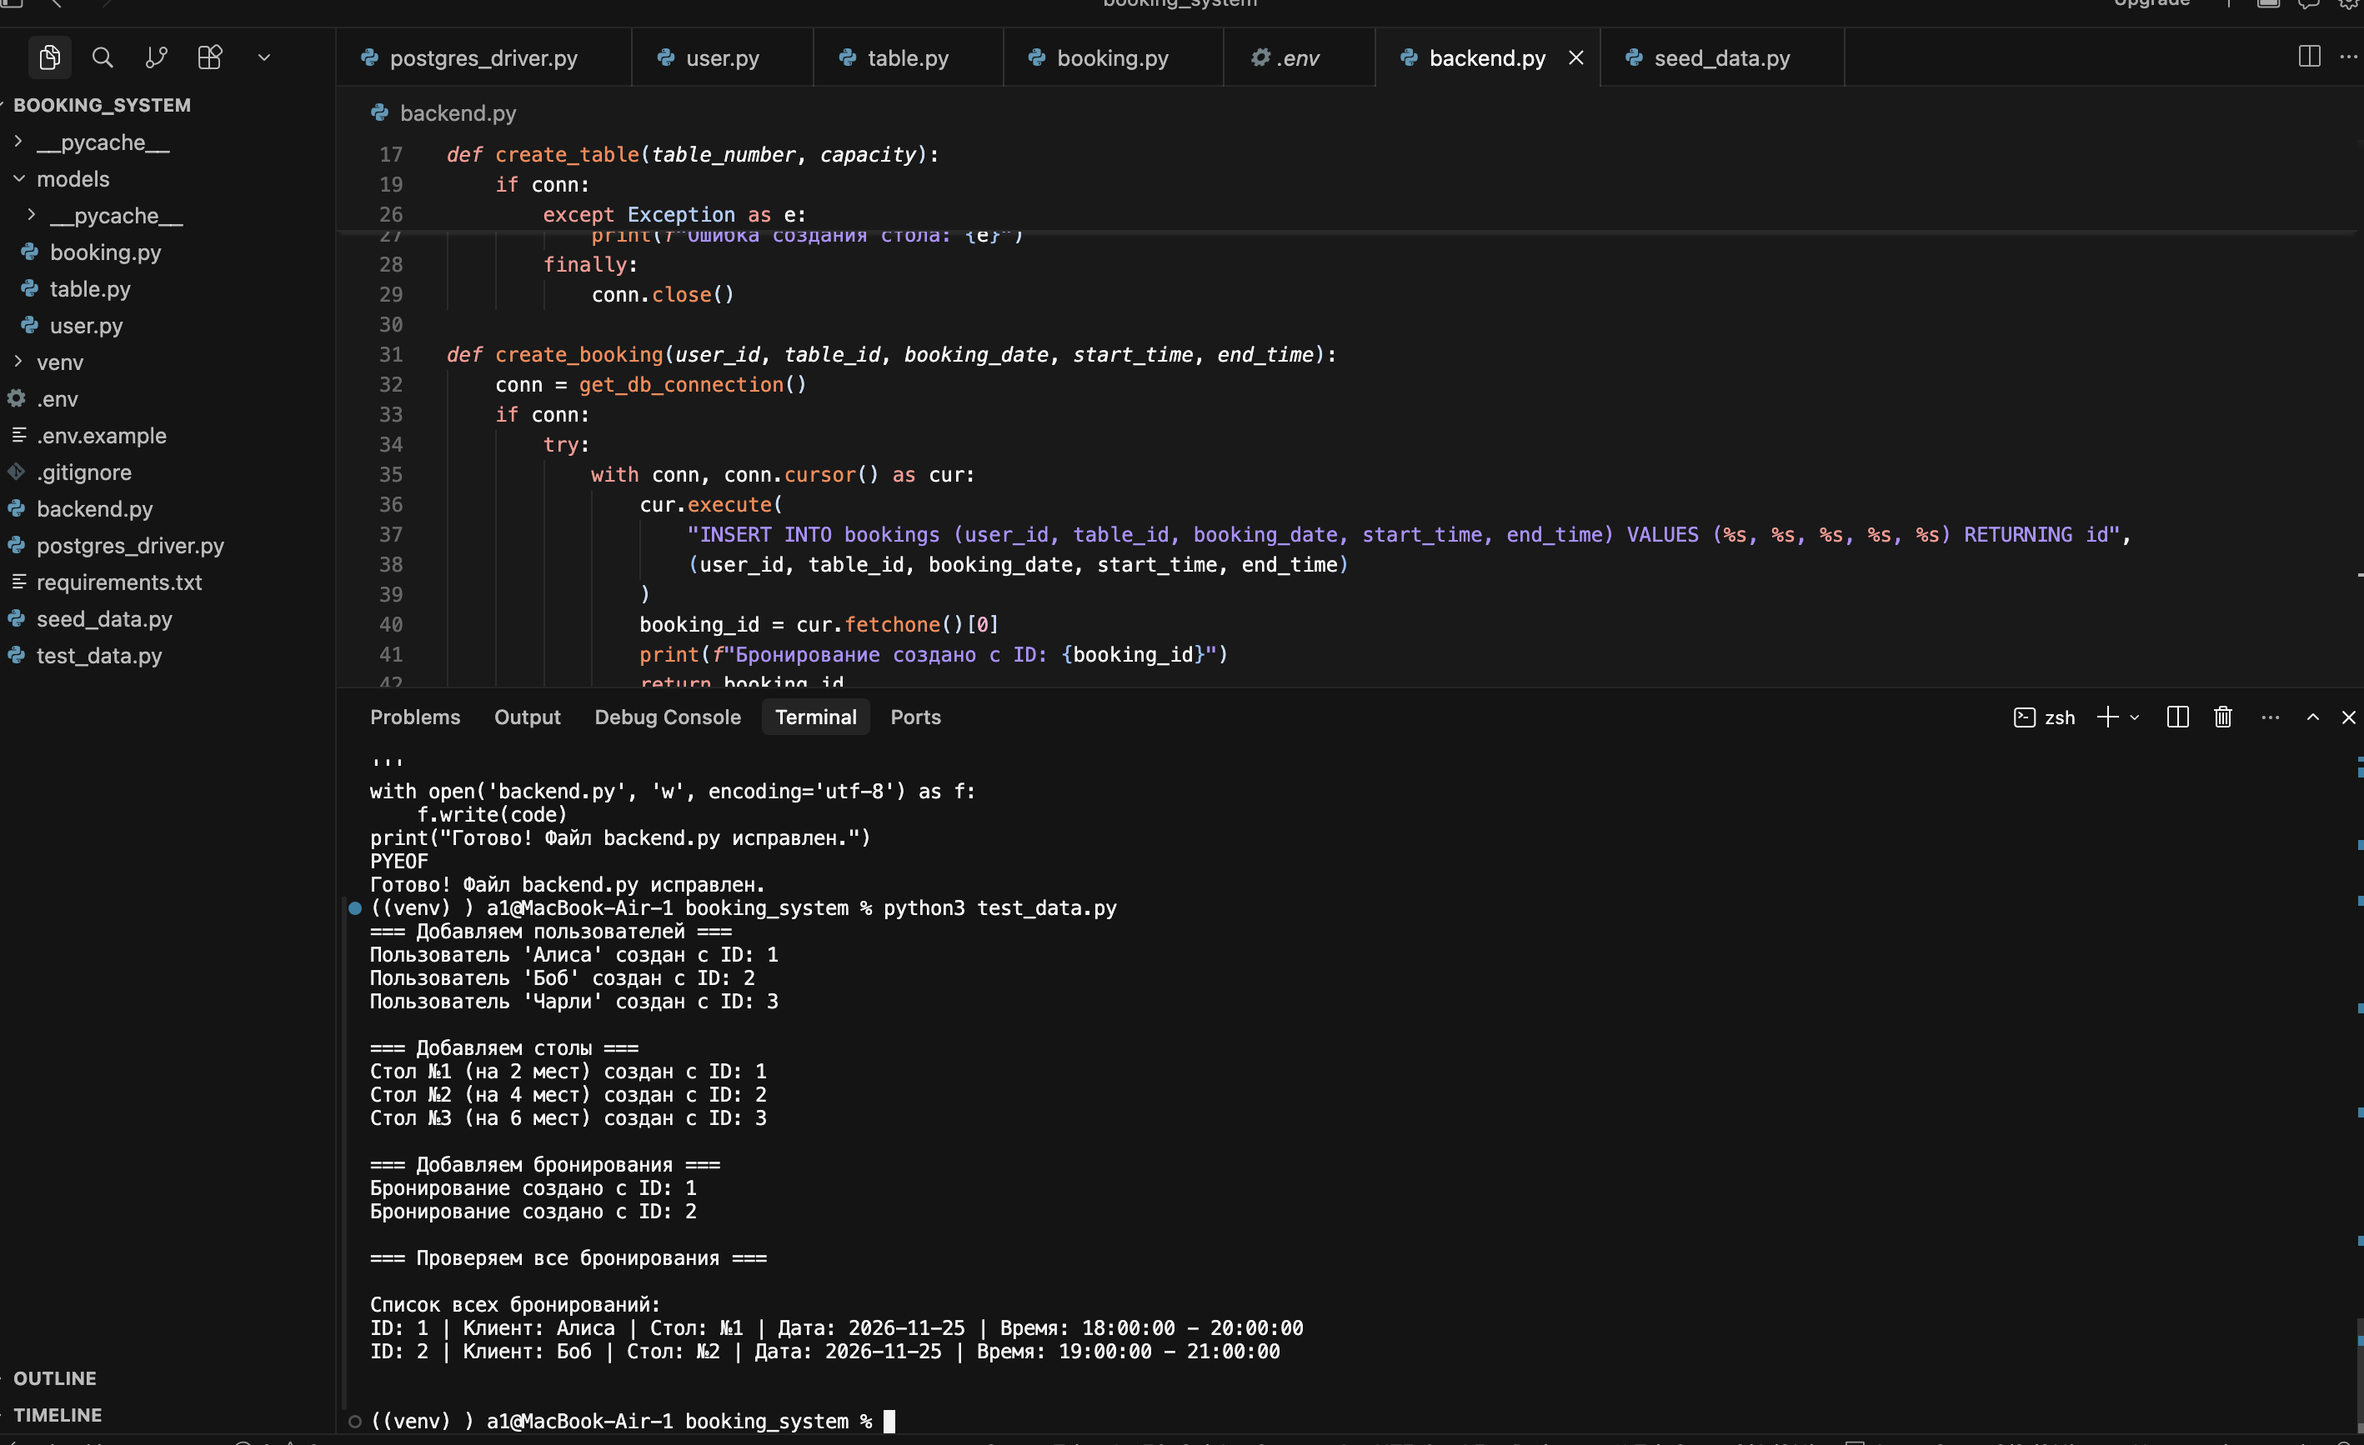
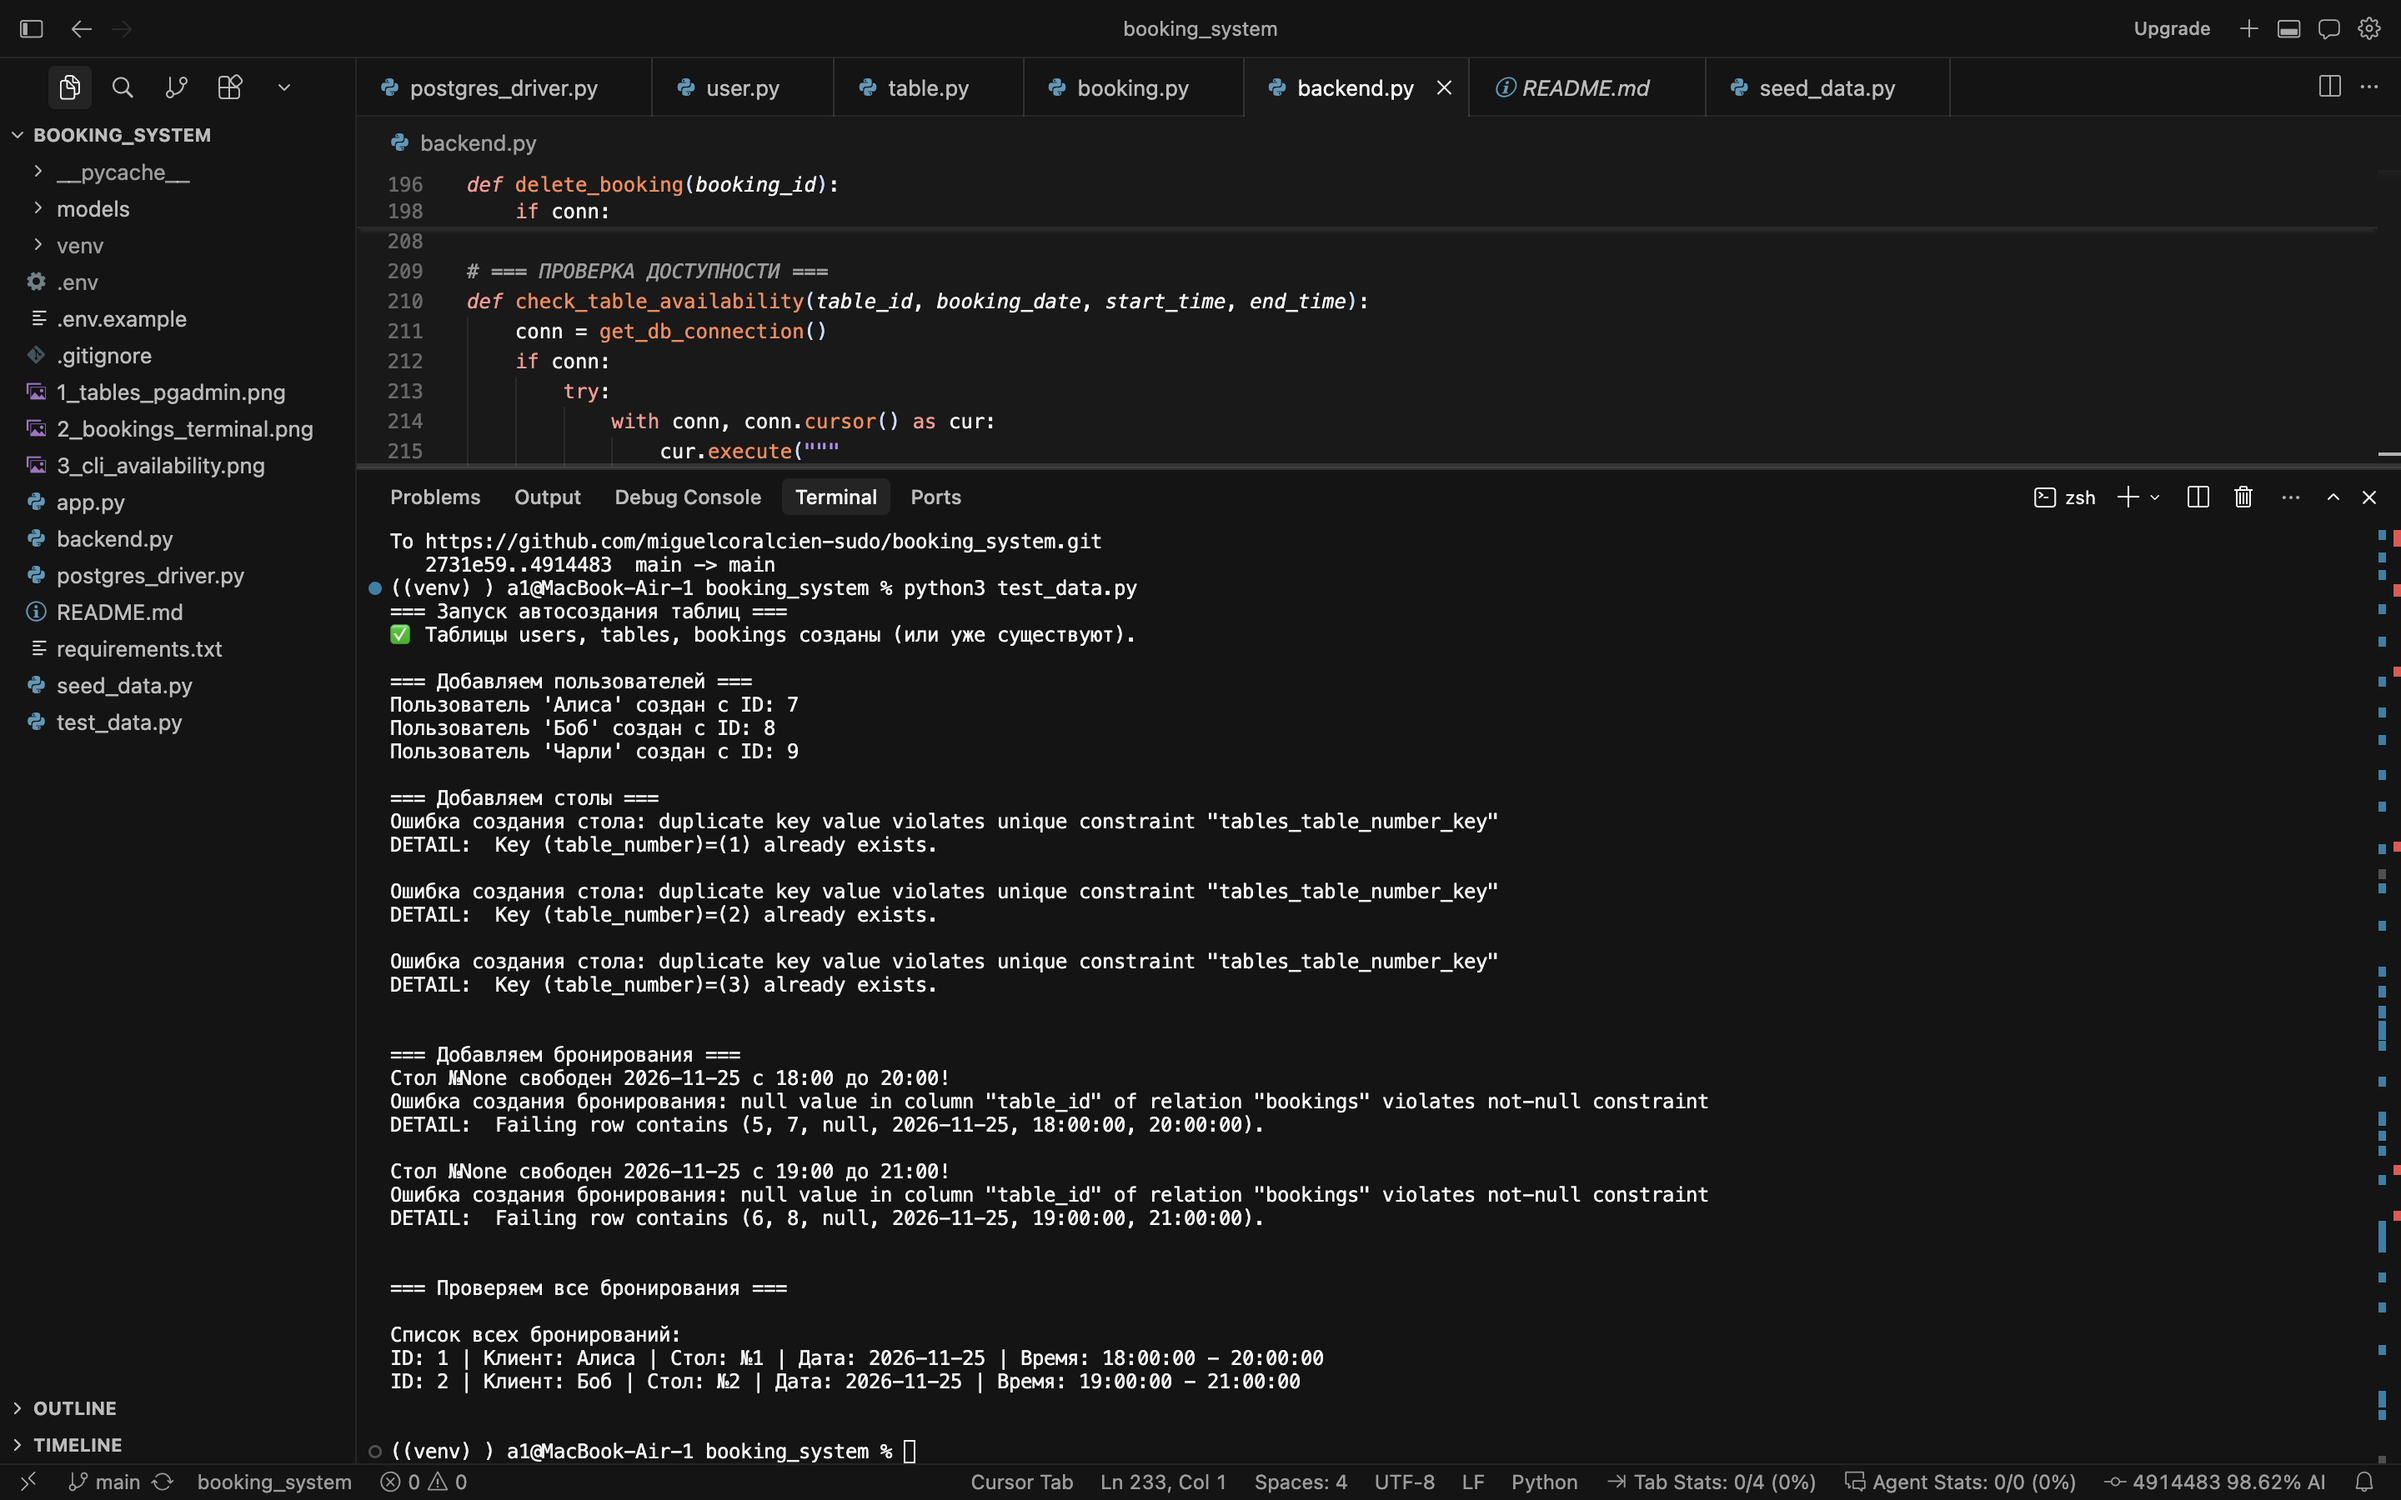
Обновлен README и скриншоты под актуальный код

diff --git a/README.md b/README.md
@@ -2,7 +2,7 @@
 
 ## Установка и запуск
 
-1. Создайте виртуальное окружение:
+1. Создайте виртуальное окружение и активируйте его:
    python3 -m venv venv
    source venv/bin/activate
 
@@ -11,26 +11,30 @@
 
 3. Создайте файл .env на основе .env.example:
    cp .env.example .env
+   (Укажите в нем ваш пароль от PostgreSQL)
 
-4. Создайте базу данных booking_db в pgAdmin и выполните SQL для создания таблиц users, tables, bookings.
+4. Создайте пустую базу данных `booking_db` в pgAdmin.
+   Таблицы создадутся автоматически при первом запуске скрипта!
 
-5. Запустите тестовые данные:
+5. Запустите тестовые данные (создаст таблицы, пользователей, столы и брони):
    python3 test_data.py
 
-6. Запустите CLI-приложение:
+6. Запустите CLI-приложение с полным меню:
    python3 app.py
 
 ## Структура проекта
 
-- postgres_driver.py — подключение к БД через psycopg2 + dotenv
-- backend.py — CRUD-функции и проверка доступности
-- app.py — CLI-меню
-- test_data.py — тестовое заполнение БД
+- postgres_driver.py — подключение к БД и функция автосоздания таблиц (init_db)
+- backend.py — полный CRUD для всех моделей и проверка доступности
+- app.py — CLI-меню для управления пользователями, столами и бронированиями
+- models/ — файлы моделей (user.py, table.py, booking.py)
+- test_data.py — скрипт для тестового заполнения БД
 
 ## Что реализовано
 
 - Подключение к PostgreSQL через .env
-- CRUD для моделей User, Table, Booking
+- Автосоздание таблиц при запуске (init_db)
+- Полный CRUD (Create, Read, Update, Delete) для User, Table, Booking
 - Функция check_table_availability с запретом пересекающихся бронирований
-- CLI-меню с проверкой доступности
+- Полное CLI-меню
 - ON DELETE CASCADE для связанных записей
